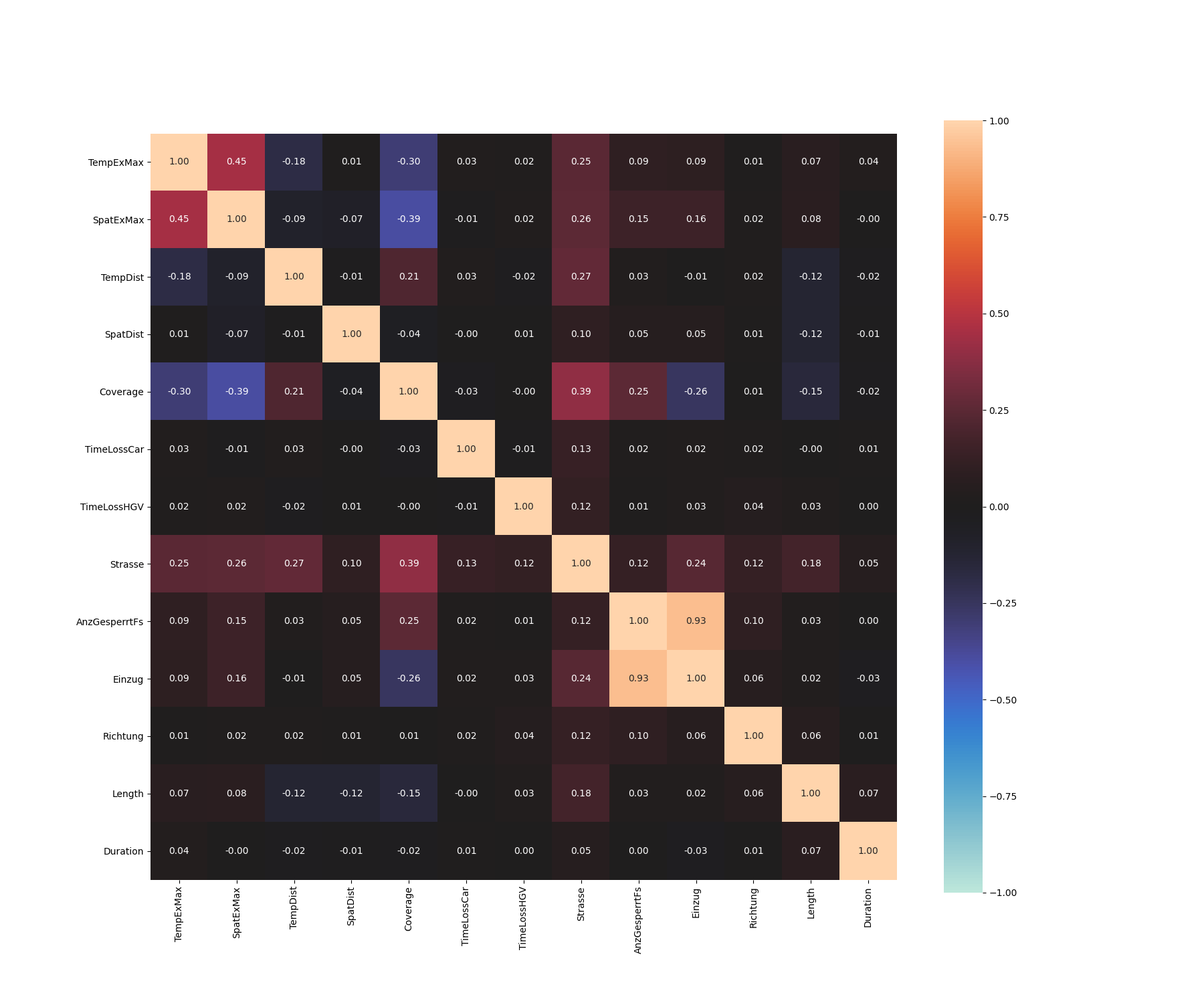
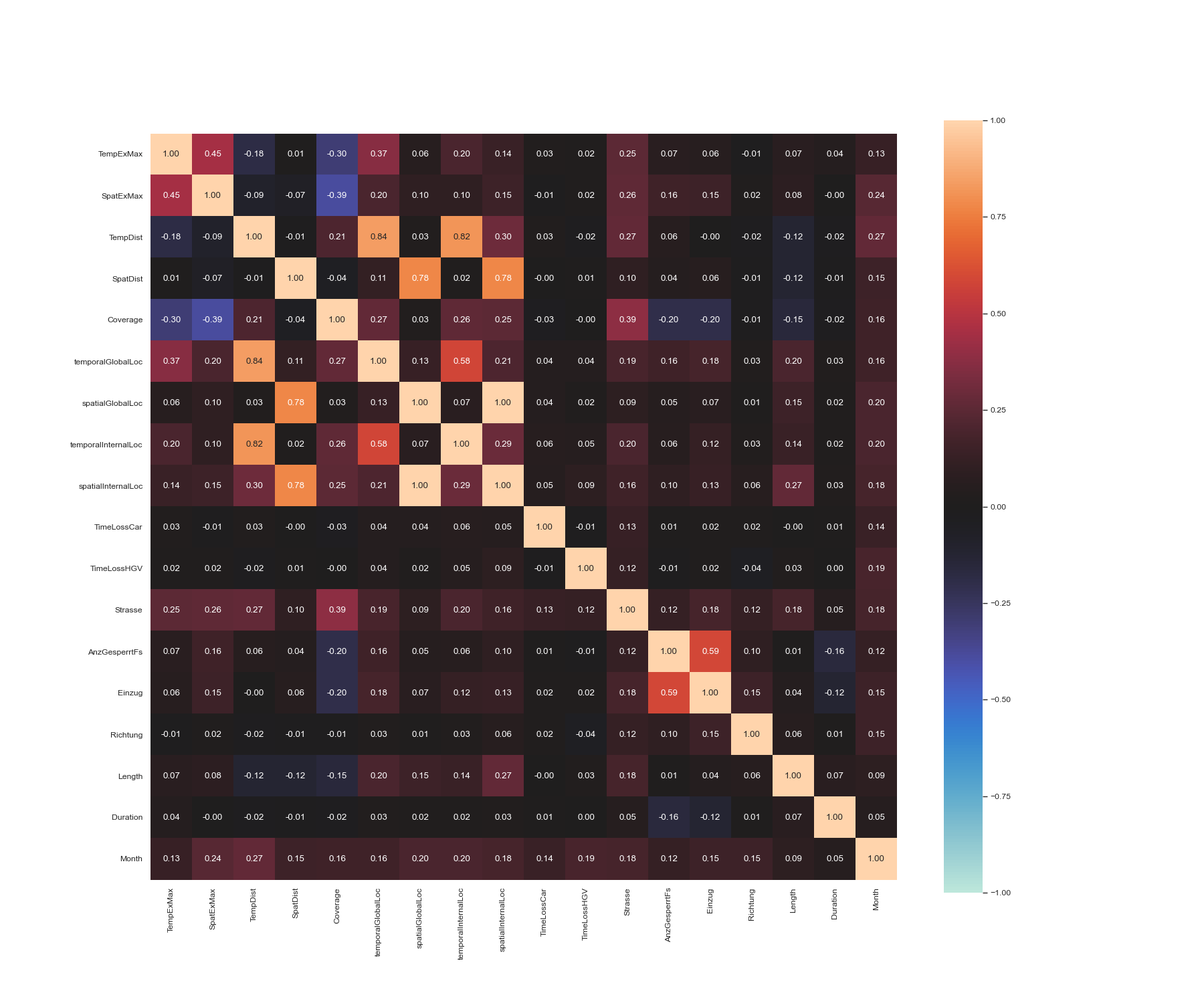
adding new plots and tex

diff --git a/CorrAnalysis/data/ArbIS/matched/latex/arbis_matched_coef_cramers.tex b/CorrAnalysis/data/ArbIS/matched/latex/arbis_matched_coef_cramers.tex
@@ -1,0 +1,24 @@
+\begin{tabular}{lllllllllllllllllll}
+\toprule
+{} &       TempExMax &       SpatExMax &        TempDist &        SpatDist &        Coverage & temporalGlobalLoc & spatialGlobalLoc & temporalInternalLoc & spatialInternalLoc &     TimeLossCar &     TimeLossHGV &     Strasse & AnzGesperrtFs &      Einzug &        Richtung &          Length &        Duration &       Month \\
+\midrule
+TempExMax           &             NaN &         Pearson &         Pearson &         Pearson &         Pearson &               Eta &              Eta &                 Eta &                Eta &         Pearson &         Pearson &         Eta &       Kendall &     Kendall &  Point Biserial &         Pearson &         Pearson &         Eta \\
+SpatExMax           &         Pearson &             NaN &         Pearson &         Pearson &         Pearson &               Eta &              Eta &                 Eta &                Eta &         Pearson &         Pearson &         Eta &       Kendall &     Kendall &  Point Biserial &         Pearson &         Pearson &         Eta \\
+TempDist            &         Pearson &         Pearson &             NaN &         Pearson &         Pearson &               Eta &              Eta &                 Eta &                Eta &         Pearson &         Pearson &         Eta &       Kendall &     Kendall &  Point Biserial &         Pearson &         Pearson &         Eta \\
+SpatDist            &         Pearson &         Pearson &         Pearson &             NaN &         Pearson &               Eta &              Eta &                 Eta &                Eta &         Pearson &         Pearson &         Eta &       Kendall &     Kendall &  Point Biserial &         Pearson &         Pearson &         Eta \\
+Coverage            &         Pearson &         Pearson &         Pearson &         Pearson &             NaN &               Eta &              Eta &                 Eta &                Eta &         Pearson &         Pearson &         Eta &       Kendall &     Kendall &  Point Biserial &         Pearson &         Pearson &         Eta \\
+temporalGlobalLoc   &             Eta &             Eta &             Eta &             Eta &             Eta &               NaN &       Cramer's V &          Cramer's V &         Cramer's V &             Eta &             Eta &  Cramer's V &    Cramer's V &  Cramer's V &      Cramer's V &             Eta &             Eta &  Cramer's V \\
+spatialGlobalLoc    &             Eta &             Eta &             Eta &             Eta &             Eta &        Cramer's V &              NaN &          Cramer's V &         Cramer's V &             Eta &             Eta &  Cramer's V &    Cramer's V &  Cramer's V &      Cramer's V &             Eta &             Eta &  Cramer's V \\
+temporalInternalLoc &             Eta &             Eta &             Eta &             Eta &             Eta &        Cramer's V &       Cramer's V &                 NaN &         Cramer's V &             Eta &             Eta &  Cramer's V &    Cramer's V &  Cramer's V &      Cramer's V &             Eta &             Eta &  Cramer's V \\
+spatialInternalLoc  &             Eta &             Eta &             Eta &             Eta &             Eta &        Cramer's V &       Cramer's V &          Cramer's V &                NaN &             Eta &             Eta &  Cramer's V &    Cramer's V &  Cramer's V &      Cramer's V &             Eta &             Eta &  Cramer's V \\
+TimeLossCar         &         Pearson &         Pearson &         Pearson &         Pearson &         Pearson &               Eta &              Eta &                 Eta &                Eta &             NaN &         Pearson &         Eta &       Kendall &     Kendall &  Point Biserial &         Pearson &         Pearson &         Eta \\
+TimeLossHGV         &         Pearson &         Pearson &         Pearson &         Pearson &         Pearson &               Eta &              Eta &                 Eta &                Eta &         Pearson &             NaN &         Eta &       Kendall &     Kendall &  Point Biserial &         Pearson &         Pearson &         Eta \\
+Strasse             &             Eta &             Eta &             Eta &             Eta &             Eta &        Cramer's V &       Cramer's V &          Cramer's V &         Cramer's V &             Eta &             Eta &         NaN &    Cramer's V &  Cramer's V &      Cramer's V &             Eta &             Eta &  Cramer's V \\
+AnzGesperrtFs       &         Kendall &         Kendall &         Kendall &         Kendall &         Kendall &        Cramer's V &       Cramer's V &          Cramer's V &         Cramer's V &         Kendall &         Kendall &  Cramer's V &           NaN &  Cramer's V &      Cramer's V &         Kendall &         Kendall &  Cramer's V \\
+Einzug              &         Kendall &         Kendall &         Kendall &         Kendall &         Kendall &        Cramer's V &       Cramer's V &          Cramer's V &         Cramer's V &         Kendall &         Kendall &  Cramer's V &    Cramer's V &         NaN &      Cramer's V &         Kendall &         Kendall &  Cramer's V \\
+Richtung            &  Point Biserial &  Point Biserial &  Point Biserial &  Point Biserial &  Point Biserial &        Cramer's V &       Cramer's V &          Cramer's V &         Cramer's V &  Point Biserial &  Point Biserial &  Cramer's V &    Cramer's V &  Cramer's V &             NaN &  Point Biserial &  Point Biserial &  Cramer's V \\
+Length              &         Pearson &         Pearson &         Pearson &         Pearson &         Pearson &               Eta &              Eta &                 Eta &                Eta &         Pearson &         Pearson &         Eta &       Kendall &     Kendall &  Point Biserial &             NaN &         Pearson &         Eta \\
+Duration            &         Pearson &         Pearson &         Pearson &         Pearson &         Pearson &               Eta &              Eta &                 Eta &                Eta &         Pearson &         Pearson &         Eta &       Kendall &     Kendall &  Point Biserial &         Pearson &             NaN &         Eta \\
+Month               &             Eta &             Eta &             Eta &             Eta &             Eta &        Cramer's V &       Cramer's V &          Cramer's V &         Cramer's V &             Eta &             Eta &  Cramer's V &    Cramer's V &  Cramer's V &      Cramer's V &             Eta &             Eta &         NaN \\
+\bottomrule
+\end{tabular}

diff --git a/CorrAnalysis/data/ArbIS/matched/latex/arbis_matched_coef_theils.tex b/CorrAnalysis/data/ArbIS/matched/latex/arbis_matched_coef_theils.tex
@@ -1,0 +1,24 @@
+\begin{tabular}{lllllllllllllllllll}
+\toprule
+{} &       TempExMax &       SpatExMax &        TempDist &        SpatDist &        Coverage & temporalGlobalLoc & spatialGlobalLoc & temporalInternalLoc & spatialInternalLoc &     TimeLossCar &     TimeLossHGV &     Strasse & AnzGesperrtFs &      Einzug &        Richtung &          Length &        Duration &       Month \\
+\midrule
+TempExMax           &             NaN &         Pearson &         Pearson &         Pearson &         Pearson &               Eta &              Eta &                 Eta &                Eta &         Pearson &         Pearson &         Eta &       Kendall &     Kendall &  Point Biserial &         Pearson &         Pearson &         Eta \\
+SpatExMax           &         Pearson &             NaN &         Pearson &         Pearson &         Pearson &               Eta &              Eta &                 Eta &                Eta &         Pearson &         Pearson &         Eta &       Kendall &     Kendall &  Point Biserial &         Pearson &         Pearson &         Eta \\
+TempDist            &         Pearson &         Pearson &             NaN &         Pearson &         Pearson &               Eta &              Eta &                 Eta &                Eta &         Pearson &         Pearson &         Eta &       Kendall &     Kendall &  Point Biserial &         Pearson &         Pearson &         Eta \\
+SpatDist            &         Pearson &         Pearson &         Pearson &             NaN &         Pearson &               Eta &              Eta &                 Eta &                Eta &         Pearson &         Pearson &         Eta &       Kendall &     Kendall &  Point Biserial &         Pearson &         Pearson &         Eta \\
+Coverage            &         Pearson &         Pearson &         Pearson &         Pearson &             NaN &               Eta &              Eta &                 Eta &                Eta &         Pearson &         Pearson &         Eta &       Kendall &     Kendall &  Point Biserial &         Pearson &         Pearson &         Eta \\
+temporalGlobalLoc   &             Eta &             Eta &             Eta &             Eta &             Eta &               NaN &       Theils's U &          Theils's U &         Theils's U &             Eta &             Eta &  Theils's U &    Theils's U &  Theils's U &      Theils's U &             Eta &             Eta &  Theils's U \\
+spatialGlobalLoc    &             Eta &             Eta &             Eta &             Eta &             Eta &        Theils's U &              NaN &          Theils's U &         Theils's U &             Eta &             Eta &  Theils's U &    Theils's U &  Theils's U &      Theils's U &             Eta &             Eta &  Theils's U \\
+temporalInternalLoc &             Eta &             Eta &             Eta &             Eta &             Eta &        Theils's U &       Theils's U &                 NaN &         Theils's U &             Eta &             Eta &  Theils's U &    Theils's U &  Theils's U &      Theils's U &             Eta &             Eta &  Theils's U \\
+spatialInternalLoc  &             Eta &             Eta &             Eta &             Eta &             Eta &        Theils's U &       Theils's U &          Theils's U &                NaN &             Eta &             Eta &  Theils's U &    Theils's U &  Theils's U &      Theils's U &             Eta &             Eta &  Theils's U \\
+TimeLossCar         &         Pearson &         Pearson &         Pearson &         Pearson &         Pearson &               Eta &              Eta &                 Eta &                Eta &             NaN &         Pearson &         Eta &       Kendall &     Kendall &  Point Biserial &         Pearson &         Pearson &         Eta \\
+TimeLossHGV         &         Pearson &         Pearson &         Pearson &         Pearson &         Pearson &               Eta &              Eta &                 Eta &                Eta &         Pearson &             NaN &         Eta &       Kendall &     Kendall &  Point Biserial &         Pearson &         Pearson &         Eta \\
+Strasse             &             Eta &             Eta &             Eta &             Eta &             Eta &        Theils's U &       Theils's U &          Theils's U &         Theils's U &             Eta &             Eta &         NaN &    Theils's U &  Theils's U &      Theils's U &             Eta &             Eta &  Theils's U \\
+AnzGesperrtFs       &         Kendall &         Kendall &         Kendall &         Kendall &         Kendall &        Theils's U &       Theils's U &          Theils's U &         Theils's U &         Kendall &         Kendall &  Theils's U &           NaN &  Theils's U &      Theils's U &         Kendall &         Kendall &  Theils's U \\
+Einzug              &         Kendall &         Kendall &         Kendall &         Kendall &         Kendall &        Theils's U &       Theils's U &          Theils's U &         Theils's U &         Kendall &         Kendall &  Theils's U &    Theils's U &         NaN &      Theils's U &         Kendall &         Kendall &  Theils's U \\
+Richtung            &  Point Biserial &  Point Biserial &  Point Biserial &  Point Biserial &  Point Biserial &        Theils's U &       Theils's U &          Theils's U &         Theils's U &  Point Biserial &  Point Biserial &  Theils's U &    Theils's U &  Theils's U &             NaN &  Point Biserial &  Point Biserial &  Theils's U \\
+Length              &         Pearson &         Pearson &         Pearson &         Pearson &         Pearson &               Eta &              Eta &                 Eta &                Eta &         Pearson &         Pearson &         Eta &       Kendall &     Kendall &  Point Biserial &             NaN &         Pearson &         Eta \\
+Duration            &         Pearson &         Pearson &         Pearson &         Pearson &         Pearson &               Eta &              Eta &                 Eta &                Eta &         Pearson &         Pearson &         Eta &       Kendall &     Kendall &  Point Biserial &         Pearson &             NaN &         Eta \\
+Month               &             Eta &             Eta &             Eta &             Eta &             Eta &        Theils's U &       Theils's U &          Theils's U &         Theils's U &             Eta &             Eta &  Theils's U &    Theils's U &  Theils's U &      Theils's U &             Eta &             Eta &         NaN \\
+\bottomrule
+\end{tabular}

diff --git a/CorrAnalysis/data/ArbIS/matched/latex/arbis_matched_corr_cramers.tex b/CorrAnalysis/data/ArbIS/matched/latex/arbis_matched_corr_cramers.tex
@@ -1,0 +1,24 @@
+\begin{tabular}{lrrrrrrrrrrrrrrrrrr}
+\toprule
+{} &  TempExMax &  SpatExMax &  TempDist &  SpatDist &  Coverage &  temporalGlobalLoc &  spatialGlobalLoc &  temporalInternalLoc &  spatialInternalLoc &  TimeLossCar &  TimeLossHGV &  Strasse &  AnzGesperrtFs &  Einzug &  Richtung &  Length &  Duration &  Month \\
+\midrule
+TempExMax           &       1.00 &       0.45 &     -0.18 &      0.01 &     -0.30 &               0.37 &              0.06 &                 0.20 &                0.14 &         0.03 &         0.02 &     0.25 &           0.07 &    0.06 &     -0.01 &    0.07 &      0.04 &   0.13 \\
+SpatExMax           &       0.45 &       1.00 &     -0.09 &     -0.07 &     -0.39 &               0.20 &              0.10 &                 0.10 &                0.15 &        -0.01 &         0.02 &     0.26 &           0.16 &    0.15 &      0.02 &    0.08 &     -0.00 &   0.24 \\
+TempDist            &      -0.18 &      -0.09 &      1.00 &     -0.01 &      0.21 &               0.84 &              0.03 &                 0.82 &                0.30 &         0.03 &        -0.02 &     0.27 &           0.06 &   -0.00 &     -0.02 &   -0.12 &     -0.02 &   0.27 \\
+SpatDist            &       0.01 &      -0.07 &     -0.01 &      1.00 &     -0.04 &               0.11 &              0.78 &                 0.02 &                0.78 &        -0.00 &         0.01 &     0.10 &           0.04 &    0.06 &     -0.01 &   -0.12 &     -0.01 &   0.15 \\
+Coverage            &      -0.30 &      -0.39 &      0.21 &     -0.04 &      1.00 &               0.27 &              0.03 &                 0.26 &                0.25 &        -0.03 &        -0.00 &     0.39 &          -0.20 &   -0.20 &     -0.01 &   -0.15 &     -0.02 &   0.16 \\
+temporalGlobalLoc   &       0.37 &       0.20 &      0.84 &      0.11 &      0.27 &               1.00 &              0.13 &                 0.58 &                0.21 &         0.04 &         0.04 &     0.19 &           0.16 &    0.18 &      0.03 &    0.20 &      0.03 &   0.16 \\
+spatialGlobalLoc    &       0.06 &       0.10 &      0.03 &      0.78 &      0.03 &               0.13 &              1.00 &                 0.07 &                1.00 &         0.04 &         0.02 &     0.09 &           0.05 &    0.07 &      0.01 &    0.15 &      0.02 &   0.20 \\
+temporalInternalLoc &       0.20 &       0.10 &      0.82 &      0.02 &      0.26 &               0.58 &              0.07 &                 1.00 &                0.29 &         0.06 &         0.05 &     0.20 &           0.06 &    0.12 &      0.03 &    0.14 &      0.02 &   0.20 \\
+spatialInternalLoc  &       0.14 &       0.15 &      0.30 &      0.78 &      0.25 &               0.21 &              1.00 &                 0.29 &                1.00 &         0.05 &         0.09 &     0.16 &           0.10 &    0.13 &      0.06 &    0.27 &      0.03 &   0.18 \\
+TimeLossCar         &       0.03 &      -0.01 &      0.03 &     -0.00 &     -0.03 &               0.04 &              0.04 &                 0.06 &                0.05 &         1.00 &        -0.01 &     0.13 &           0.01 &    0.02 &      0.02 &   -0.00 &      0.01 &   0.14 \\
+TimeLossHGV         &       0.02 &       0.02 &     -0.02 &      0.01 &     -0.00 &               0.04 &              0.02 &                 0.05 &                0.09 &        -0.01 &         1.00 &     0.12 &          -0.01 &    0.02 &     -0.04 &    0.03 &      0.00 &   0.19 \\
+Strasse             &       0.25 &       0.26 &      0.27 &      0.10 &      0.39 &               0.19 &              0.09 &                 0.20 &                0.16 &         0.13 &         0.12 &     1.00 &           0.12 &    0.18 &      0.12 &    0.18 &      0.05 &   0.18 \\
+AnzGesperrtFs       &       0.07 &       0.16 &      0.06 &      0.04 &     -0.20 &               0.16 &              0.05 &                 0.06 &                0.10 &         0.01 &        -0.01 &     0.12 &           1.00 &    0.59 &      0.10 &    0.01 &     -0.16 &   0.12 \\
+Einzug              &       0.06 &       0.15 &     -0.00 &      0.06 &     -0.20 &               0.18 &              0.07 &                 0.12 &                0.13 &         0.02 &         0.02 &     0.18 &           0.59 &    1.00 &      0.15 &    0.04 &     -0.12 &   0.15 \\
+Richtung            &      -0.01 &       0.02 &     -0.02 &     -0.01 &     -0.01 &               0.03 &              0.01 &                 0.03 &                0.06 &         0.02 &        -0.04 &     0.12 &           0.10 &    0.15 &      1.00 &    0.06 &      0.01 &   0.15 \\
+Length              &       0.07 &       0.08 &     -0.12 &     -0.12 &     -0.15 &               0.20 &              0.15 &                 0.14 &                0.27 &        -0.00 &         0.03 &     0.18 &           0.01 &    0.04 &      0.06 &    1.00 &      0.07 &   0.09 \\
+Duration            &       0.04 &      -0.00 &     -0.02 &     -0.01 &     -0.02 &               0.03 &              0.02 &                 0.02 &                0.03 &         0.01 &         0.00 &     0.05 &          -0.16 &   -0.12 &      0.01 &    0.07 &      1.00 &   0.05 \\
+Month               &       0.13 &       0.24 &      0.27 &      0.15 &      0.16 &               0.16 &              0.20 &                 0.20 &                0.18 &         0.14 &         0.19 &     0.18 &           0.12 &    0.15 &      0.15 &    0.09 &      0.05 &   1.00 \\
+\bottomrule
+\end{tabular}

diff --git a/CorrAnalysis/data/ArbIS/matched/latex/arbis_matched_corr_theils.tex b/CorrAnalysis/data/ArbIS/matched/latex/arbis_matched_corr_theils.tex
@@ -1,0 +1,24 @@
+\begin{tabular}{lrrrrrrrrrrrrrrrrrr}
+\toprule
+{} &  TempExMax &  SpatExMax &  TempDist &  SpatDist &  Coverage &  temporalGlobalLoc &  spatialGlobalLoc &  temporalInternalLoc &  spatialInternalLoc &  TimeLossCar &  TimeLossHGV &  Strasse &  AnzGesperrtFs &  Einzug &  Richtung &  Length &  Duration &  Month \\
+\midrule
+TempExMax           &       1.00 &       0.45 &     -0.18 &      0.01 &     -0.30 &               0.37 &              0.06 &                 0.20 &                0.14 &         0.03 &         0.02 &     0.25 &           0.07 &    0.06 &     -0.01 &    0.07 &      0.04 &   0.13 \\
+SpatExMax           &       0.45 &       1.00 &     -0.09 &     -0.07 &     -0.39 &               0.20 &              0.10 &                 0.10 &                0.15 &        -0.01 &         0.02 &     0.26 &           0.16 &    0.15 &      0.02 &    0.08 &     -0.00 &   0.24 \\
+TempDist            &      -0.18 &      -0.09 &      1.00 &     -0.01 &      0.21 &               0.84 &              0.03 &                 0.82 &                0.30 &         0.03 &        -0.02 &     0.27 &           0.06 &   -0.00 &     -0.02 &   -0.12 &     -0.02 &   0.27 \\
+SpatDist            &       0.01 &      -0.07 &     -0.01 &      1.00 &     -0.04 &               0.11 &              0.78 &                 0.02 &                0.78 &        -0.00 &         0.01 &     0.10 &           0.04 &    0.06 &     -0.01 &   -0.12 &     -0.01 &   0.15 \\
+Coverage            &      -0.30 &      -0.39 &      0.21 &     -0.04 &      1.00 &               0.27 &              0.03 &                 0.26 &                0.25 &        -0.03 &        -0.00 &     0.39 &          -0.20 &   -0.20 &     -0.01 &   -0.15 &     -0.02 &   0.16 \\
+temporalGlobalLoc   &       0.37 &       0.20 &      0.84 &      0.11 &      0.27 &               1.00 &              0.01 &                 0.35 &                0.05 &         0.04 &         0.04 &     0.05 &           0.04 &    0.05 &      0.00 &    0.20 &      0.03 &   0.03 \\
+spatialGlobalLoc    &       0.06 &       0.10 &      0.03 &      0.78 &      0.03 &               0.02 &              1.00 &                 0.01 &                1.00 &         0.04 &         0.02 &     0.01 &           0.00 &    0.01 &      0.00 &    0.15 &      0.02 &   0.05 \\
+temporalInternalLoc &       0.20 &       0.10 &      0.82 &      0.02 &      0.26 &               0.80 &              0.01 &                 1.00 &                0.26 &         0.06 &         0.05 &     0.10 &           0.01 &    0.05 &      0.00 &    0.14 &      0.02 &   0.11 \\
+spatialInternalLoc  &       0.14 &       0.15 &      0.30 &      0.78 &      0.25 &               0.03 &              0.23 &                 0.07 &                1.00 &         0.05 &         0.09 &     0.04 &           0.01 &    0.02 &      0.00 &    0.27 &      0.03 &   0.04 \\
+TimeLossCar         &       0.03 &      -0.01 &      0.03 &     -0.00 &     -0.03 &               0.04 &              0.04 &                 0.06 &                0.05 &         1.00 &        -0.01 &     0.13 &           0.01 &    0.02 &      0.02 &   -0.00 &      0.01 &   0.14 \\
+TimeLossHGV         &       0.02 &       0.02 &     -0.02 &      0.01 &     -0.00 &               0.04 &              0.02 &                 0.05 &                0.09 &        -0.01 &         1.00 &     0.12 &          -0.01 &    0.02 &     -0.04 &    0.03 &      0.00 &   0.19 \\
+Strasse             &       0.25 &       0.26 &      0.27 &      0.10 &      0.39 &               0.02 &              0.00 &                 0.02 &                0.03 &         0.13 &         0.12 &     1.00 &           0.01 &    0.03 &      0.00 &    0.18 &      0.05 &   0.07 \\
+AnzGesperrtFs       &       0.07 &       0.16 &      0.06 &      0.04 &     -0.20 &               0.07 &              0.00 &                 0.01 &                0.02 &         0.01 &        -0.01 &     0.04 &           1.00 &    0.86 &      0.00 &    0.01 &     -0.16 &   0.03 \\
+Einzug              &       0.06 &       0.15 &     -0.00 &      0.06 &     -0.20 &               0.05 &              0.00 &                 0.02 &                0.03 &         0.02 &         0.02 &     0.05 &           0.50 &    1.00 &      0.00 &    0.04 &     -0.12 &   0.04 \\
+Richtung            &      -0.01 &       0.02 &     -0.02 &     -0.01 &     -0.01 &               0.00 &              0.00 &                 0.00 &                0.02 &         0.02 &        -0.04 &     0.07 &           0.02 &    0.04 &      1.00 &    0.06 &      0.01 &   0.07 \\
+Length              &       0.07 &       0.08 &     -0.12 &     -0.12 &     -0.15 &               0.20 &              0.15 &                 0.14 &                0.27 &        -0.00 &         0.03 &     0.18 &           0.01 &    0.04 &      0.06 &    1.00 &      0.07 &   0.09 \\
+Duration            &       0.04 &      -0.00 &     -0.02 &     -0.01 &     -0.02 &               0.03 &              0.02 &                 0.02 &                0.03 &         0.01 &         0.00 &     0.05 &          -0.16 &   -0.12 &      0.01 &    0.07 &      1.00 &   0.05 \\
+Month               &       0.13 &       0.24 &      0.27 &      0.15 &      0.16 &               0.01 &              0.01 &                 0.02 &                0.03 &         0.14 &         0.19 &     0.06 &           0.01 &    0.02 &      0.00 &    0.09 &      0.05 &   1.00 \\
+\bottomrule
+\end{tabular}

diff --git a/CorrAnalysis/data/ArbIS/matched/latex/arbis_matched_sign_cramers.tex b/CorrAnalysis/data/ArbIS/matched/latex/arbis_matched_sign_cramers.tex
@@ -1,0 +1,24 @@
+\begin{tabular}{lrrrrrrrrrrrrrrrrrr}
+\toprule
+{} &  TempExMax &  SpatExMax &  TempDist &  SpatDist &  Coverage &  temporalGlobalLoc &  spatialGlobalLoc &  temporalInternalLoc &  spatialInternalLoc &  TimeLossCar &  TimeLossHGV &  Strasse &  AnzGesperrtFs &  Einzug &  Richtung &  Length &  Duration &  Month \\
+\midrule
+TempExMax           &        NaN &     0.0000 &    0.0000 &    0.4231 &    0.0000 &             0.0000 &            0.0000 &               0.0000 &              0.0000 &       0.1425 &       0.3315 &   0.0000 &         0.0000 &  0.0000 &    0.4581 &  0.0004 &    0.0544 &    0.0 \\
+SpatExMax           &     0.0000 &        NaN &    0.0000 &    0.0001 &    0.0000 &             0.0000 &            0.0000 &               0.0000 &              0.0000 &       0.6088 &       0.1853 &   0.0000 &         0.0000 &  0.0000 &    0.2429 &  0.0000 &    0.8016 &    0.0 \\
+TempDist            &     0.0000 &     0.0000 &       NaN &    0.5160 &    0.0000 &             0.0000 &            0.0000 &               0.0000 &              0.0000 &       0.1027 &       0.3490 &   0.0000 &         0.0006 &  0.7686 &    0.3701 &  0.0000 &    0.2463 &    0.0 \\
+SpatDist            &     0.4231 &     0.0001 &    0.5160 &       NaN &    0.0258 &             0.0000 &            0.0494 &               0.0011 &              0.0000 &       0.9198 &       0.7391 &   0.0000 &         0.0131 &  0.0009 &    0.6300 &  0.0000 &    0.5061 &    0.0 \\
+Coverage            &     0.0000 &     0.0000 &    0.0000 &    0.0258 &       NaN &             0.0000 &            0.0000 &               0.0000 &              0.0000 &       0.1132 &       0.8785 &   0.0000 &         0.0000 &  0.0000 &    0.7317 &  0.0000 &    0.2080 &    0.0 \\
+temporalGlobalLoc   &     0.0000 &     0.0000 &    0.0000 &    0.0000 &    0.0000 &                NaN &            0.0000 &               0.0000 &              0.0000 &       0.0000 &       0.0000 &   0.0000 &         0.0000 &  0.0000 &    0.4633 &  0.0000 &    0.0000 &    0.0 \\
+spatialGlobalLoc    &     0.0000 &     0.0000 &    0.0000 &    0.0494 &    0.0000 &             0.0000 &               NaN &               0.0011 &              0.0000 &       0.0000 &       0.0000 &   0.1041 &         0.0742 &  0.0123 &    0.5344 &  0.0000 &    0.0000 &    0.0 \\
+temporalInternalLoc &     0.0000 &     0.0000 &    0.0000 &    0.0011 &    0.0000 &             0.0000 &            0.0011 &                  NaN &              0.0000 &       0.0000 &       0.0000 &   0.0000 &         0.0000 &  0.0000 &    0.5120 &  0.0000 &    0.0000 &    0.0 \\
+spatialInternalLoc  &     0.0000 &     0.0000 &    0.0000 &    0.0000 &    0.0000 &             0.0000 &            0.0000 &               0.0000 &                 NaN &       0.0000 &       0.0000 &   0.0000 &         0.0000 &  0.0000 &    0.0801 &  0.0000 &    0.0000 &    0.0 \\
+TimeLossCar         &     0.1425 &     0.6088 &    0.1027 &    0.9198 &    0.1132 &             0.0000 &            0.0000 &               0.0000 &              0.0000 &          NaN &       0.4229 &   0.0000 &         0.3637 &  0.0993 &    0.3305 &  0.9555 &    0.4984 &    0.0 \\
+TimeLossHGV         &     0.3315 &     0.1853 &    0.3490 &    0.7391 &    0.8785 &             0.0000 &            0.0000 &               0.0000 &              0.0000 &       0.4229 &          NaN &   0.0000 &         0.3903 &  0.1101 &    0.0338 &  0.1641 &    0.8675 &    0.0 \\
+Strasse             &     0.0000 &     0.0000 &    0.0000 &    0.0000 &    0.0000 &             0.0000 &            0.1041 &               0.0000 &              0.0000 &       0.0000 &       0.0000 &      NaN &         0.0000 &  0.0000 &    0.0002 &  0.0000 &    0.0000 &    0.0 \\
+AnzGesperrtFs       &     0.0000 &     0.0000 &    0.0006 &    0.0131 &    0.0000 &             0.0000 &            0.0742 &               0.0000 &              0.0000 &       0.3637 &       0.3903 &   0.0000 &            NaN &  0.0000 &    0.0000 &  0.7075 &    0.0000 &    0.0 \\
+Einzug              &     0.0000 &     0.0000 &    0.7686 &    0.0009 &    0.0000 &             0.0000 &            0.0123 &               0.0000 &              0.0000 &       0.0993 &       0.1101 &   0.0000 &         0.0000 &     NaN &    0.0000 &  0.0069 &    0.0000 &    0.0 \\
+Richtung            &     0.4581 &     0.2429 &    0.3701 &    0.6300 &    0.7317 &             0.4633 &            0.5344 &               0.5120 &              0.0801 &       0.3305 &       0.0338 &   0.0002 &         0.0000 &  0.0000 &       NaN &  0.0017 &    0.7496 &    0.0 \\
+Length              &     0.0004 &     0.0000 &    0.0000 &    0.0000 &    0.0000 &             0.0000 &            0.0000 &               0.0000 &              0.0000 &       0.9555 &       0.1641 &   0.0000 &         0.7075 &  0.0069 &    0.0017 &     NaN &    0.0001 &    0.0 \\
+Duration            &     0.0544 &     0.8016 &    0.2463 &    0.5061 &    0.2080 &             0.0000 &            0.0000 &               0.0000 &              0.0000 &       0.4984 &       0.8675 &   0.0000 &         0.0000 &  0.0000 &    0.7496 &  0.0001 &       NaN &    0.0 \\
+Month               &     0.0000 &     0.0000 &    0.0000 &    0.0000 &    0.0000 &             0.0000 &            0.0000 &               0.0000 &              0.0000 &       0.0000 &       0.0000 &   0.0000 &         0.0000 &  0.0000 &    0.0000 &  0.0000 &    0.0000 &    NaN \\
+\bottomrule
+\end{tabular}

diff --git a/CorrAnalysis/data/ArbIS/matched/latex/arbis_matched_sign_theils.tex b/CorrAnalysis/data/ArbIS/matched/latex/arbis_matched_sign_theils.tex
@@ -1,0 +1,24 @@
+\begin{tabular}{lrrrrrrrrrrrrrrrrrr}
+\toprule
+{} &  TempExMax &  SpatExMax &  TempDist &  SpatDist &  Coverage &  temporalGlobalLoc &  spatialGlobalLoc &  temporalInternalLoc &  spatialInternalLoc &  TimeLossCar &  TimeLossHGV &  Strasse &  AnzGesperrtFs &  Einzug &  Richtung &  Length &  Duration &  Month \\
+\midrule
+TempExMax           &        NaN &     0.0000 &    0.0000 &    0.4231 &    0.0000 &             0.0000 &            0.0000 &               0.0000 &              0.0000 &       0.1425 &       0.3315 &   0.0000 &         0.0000 &  0.0000 &    0.4581 &  0.0004 &    0.0544 &    0.0 \\
+SpatExMax           &     0.0000 &        NaN &    0.0000 &    0.0001 &    0.0000 &             0.0000 &            0.0000 &               0.0000 &              0.0000 &       0.6088 &       0.1853 &   0.0000 &         0.0000 &  0.0000 &    0.2429 &  0.0000 &    0.8016 &    0.0 \\
+TempDist            &     0.0000 &     0.0000 &       NaN &    0.5160 &    0.0000 &             0.0000 &            0.0000 &               0.0000 &              0.0000 &       0.1027 &       0.3490 &   0.0000 &         0.0006 &  0.7686 &    0.3701 &  0.0000 &    0.2463 &    0.0 \\
+SpatDist            &     0.4231 &     0.0001 &    0.5160 &       NaN &    0.0258 &             0.0000 &            0.0494 &               0.0011 &              0.0000 &       0.9198 &       0.7391 &   0.0000 &         0.0131 &  0.0009 &    0.6300 &  0.0000 &    0.5061 &    0.0 \\
+Coverage            &     0.0000 &     0.0000 &    0.0000 &    0.0258 &       NaN &             0.0000 &            0.0000 &               0.0000 &              0.0000 &       0.1132 &       0.8785 &   0.0000 &         0.0000 &  0.0000 &    0.7317 &  0.0000 &    0.2080 &    0.0 \\
+temporalGlobalLoc   &     0.0000 &     0.0000 &    0.0000 &    0.0000 &    0.0000 &                NaN &            0.0000 &               0.0000 &              0.0000 &       0.0000 &       0.0000 &   0.0000 &         0.0000 &  0.0000 &    0.4633 &  0.0000 &    0.0000 &    0.0 \\
+spatialGlobalLoc    &     0.0000 &     0.0000 &    0.0000 &    0.0494 &    0.0000 &             0.0000 &               NaN &               0.0011 &              0.0000 &       0.0000 &       0.0000 &   0.1041 &         0.0742 &  0.0123 &    0.5344 &  0.0000 &    0.0000 &    0.0 \\
+temporalInternalLoc &     0.0000 &     0.0000 &    0.0000 &    0.0011 &    0.0000 &             0.0000 &            0.0011 &                  NaN &              0.0000 &       0.0000 &       0.0000 &   0.0000 &         0.0000 &  0.0000 &    0.5120 &  0.0000 &    0.0000 &    0.0 \\
+spatialInternalLoc  &     0.0000 &     0.0000 &    0.0000 &    0.0000 &    0.0000 &             0.0000 &            0.0000 &               0.0000 &                 NaN &       0.0000 &       0.0000 &   0.0000 &         0.0000 &  0.0000 &    0.0801 &  0.0000 &    0.0000 &    0.0 \\
+TimeLossCar         &     0.1425 &     0.6088 &    0.1027 &    0.9198 &    0.1132 &             0.0000 &            0.0000 &               0.0000 &              0.0000 &          NaN &       0.4229 &   0.0000 &         0.3637 &  0.0993 &    0.3305 &  0.9555 &    0.4984 &    0.0 \\
+TimeLossHGV         &     0.3315 &     0.1853 &    0.3490 &    0.7391 &    0.8785 &             0.0000 &            0.0000 &               0.0000 &              0.0000 &       0.4229 &          NaN &   0.0000 &         0.3903 &  0.1101 &    0.0338 &  0.1641 &    0.8675 &    0.0 \\
+Strasse             &     0.0000 &     0.0000 &    0.0000 &    0.0000 &    0.0000 &             0.0000 &            0.1041 &               0.0000 &              0.0000 &       0.0000 &       0.0000 &      NaN &         0.0000 &  0.0000 &    0.0002 &  0.0000 &    0.0000 &    0.0 \\
+AnzGesperrtFs       &     0.0000 &     0.0000 &    0.0006 &    0.0131 &    0.0000 &             0.0000 &            0.0742 &               0.0000 &              0.0000 &       0.3637 &       0.3903 &   0.0000 &            NaN &  0.0000 &    0.0000 &  0.7075 &    0.0000 &    0.0 \\
+Einzug              &     0.0000 &     0.0000 &    0.7686 &    0.0009 &    0.0000 &             0.0000 &            0.0123 &               0.0000 &              0.0000 &       0.0993 &       0.1101 &   0.0000 &         0.0000 &     NaN &    0.0000 &  0.0069 &    0.0000 &    0.0 \\
+Richtung            &     0.4581 &     0.2429 &    0.3701 &    0.6300 &    0.7317 &             0.4633 &            0.5344 &               0.5120 &              0.0801 &       0.3305 &       0.0338 &   0.0002 &         0.0000 &  0.0000 &       NaN &  0.0017 &    0.7496 &    0.0 \\
+Length              &     0.0004 &     0.0000 &    0.0000 &    0.0000 &    0.0000 &             0.0000 &            0.0000 &               0.0000 &              0.0000 &       0.9555 &       0.1641 &   0.0000 &         0.7075 &  0.0069 &    0.0017 &     NaN &    0.0001 &    0.0 \\
+Duration            &     0.0544 &     0.8016 &    0.2463 &    0.5061 &    0.2080 &             0.0000 &            0.0000 &               0.0000 &              0.0000 &       0.4984 &       0.8675 &   0.0000 &         0.0000 &  0.0000 &    0.7496 &  0.0001 &       NaN &    0.0 \\
+Month               &     0.0000 &     0.0000 &    0.0000 &    0.0000 &    0.0000 &             0.0000 &            0.0000 &               0.0000 &              0.0000 &       0.0000 &       0.0000 &   0.0000 &         0.0000 &  0.0000 &    0.0000 &  0.0000 &    0.0000 &    NaN \\
+\bottomrule
+\end{tabular}
